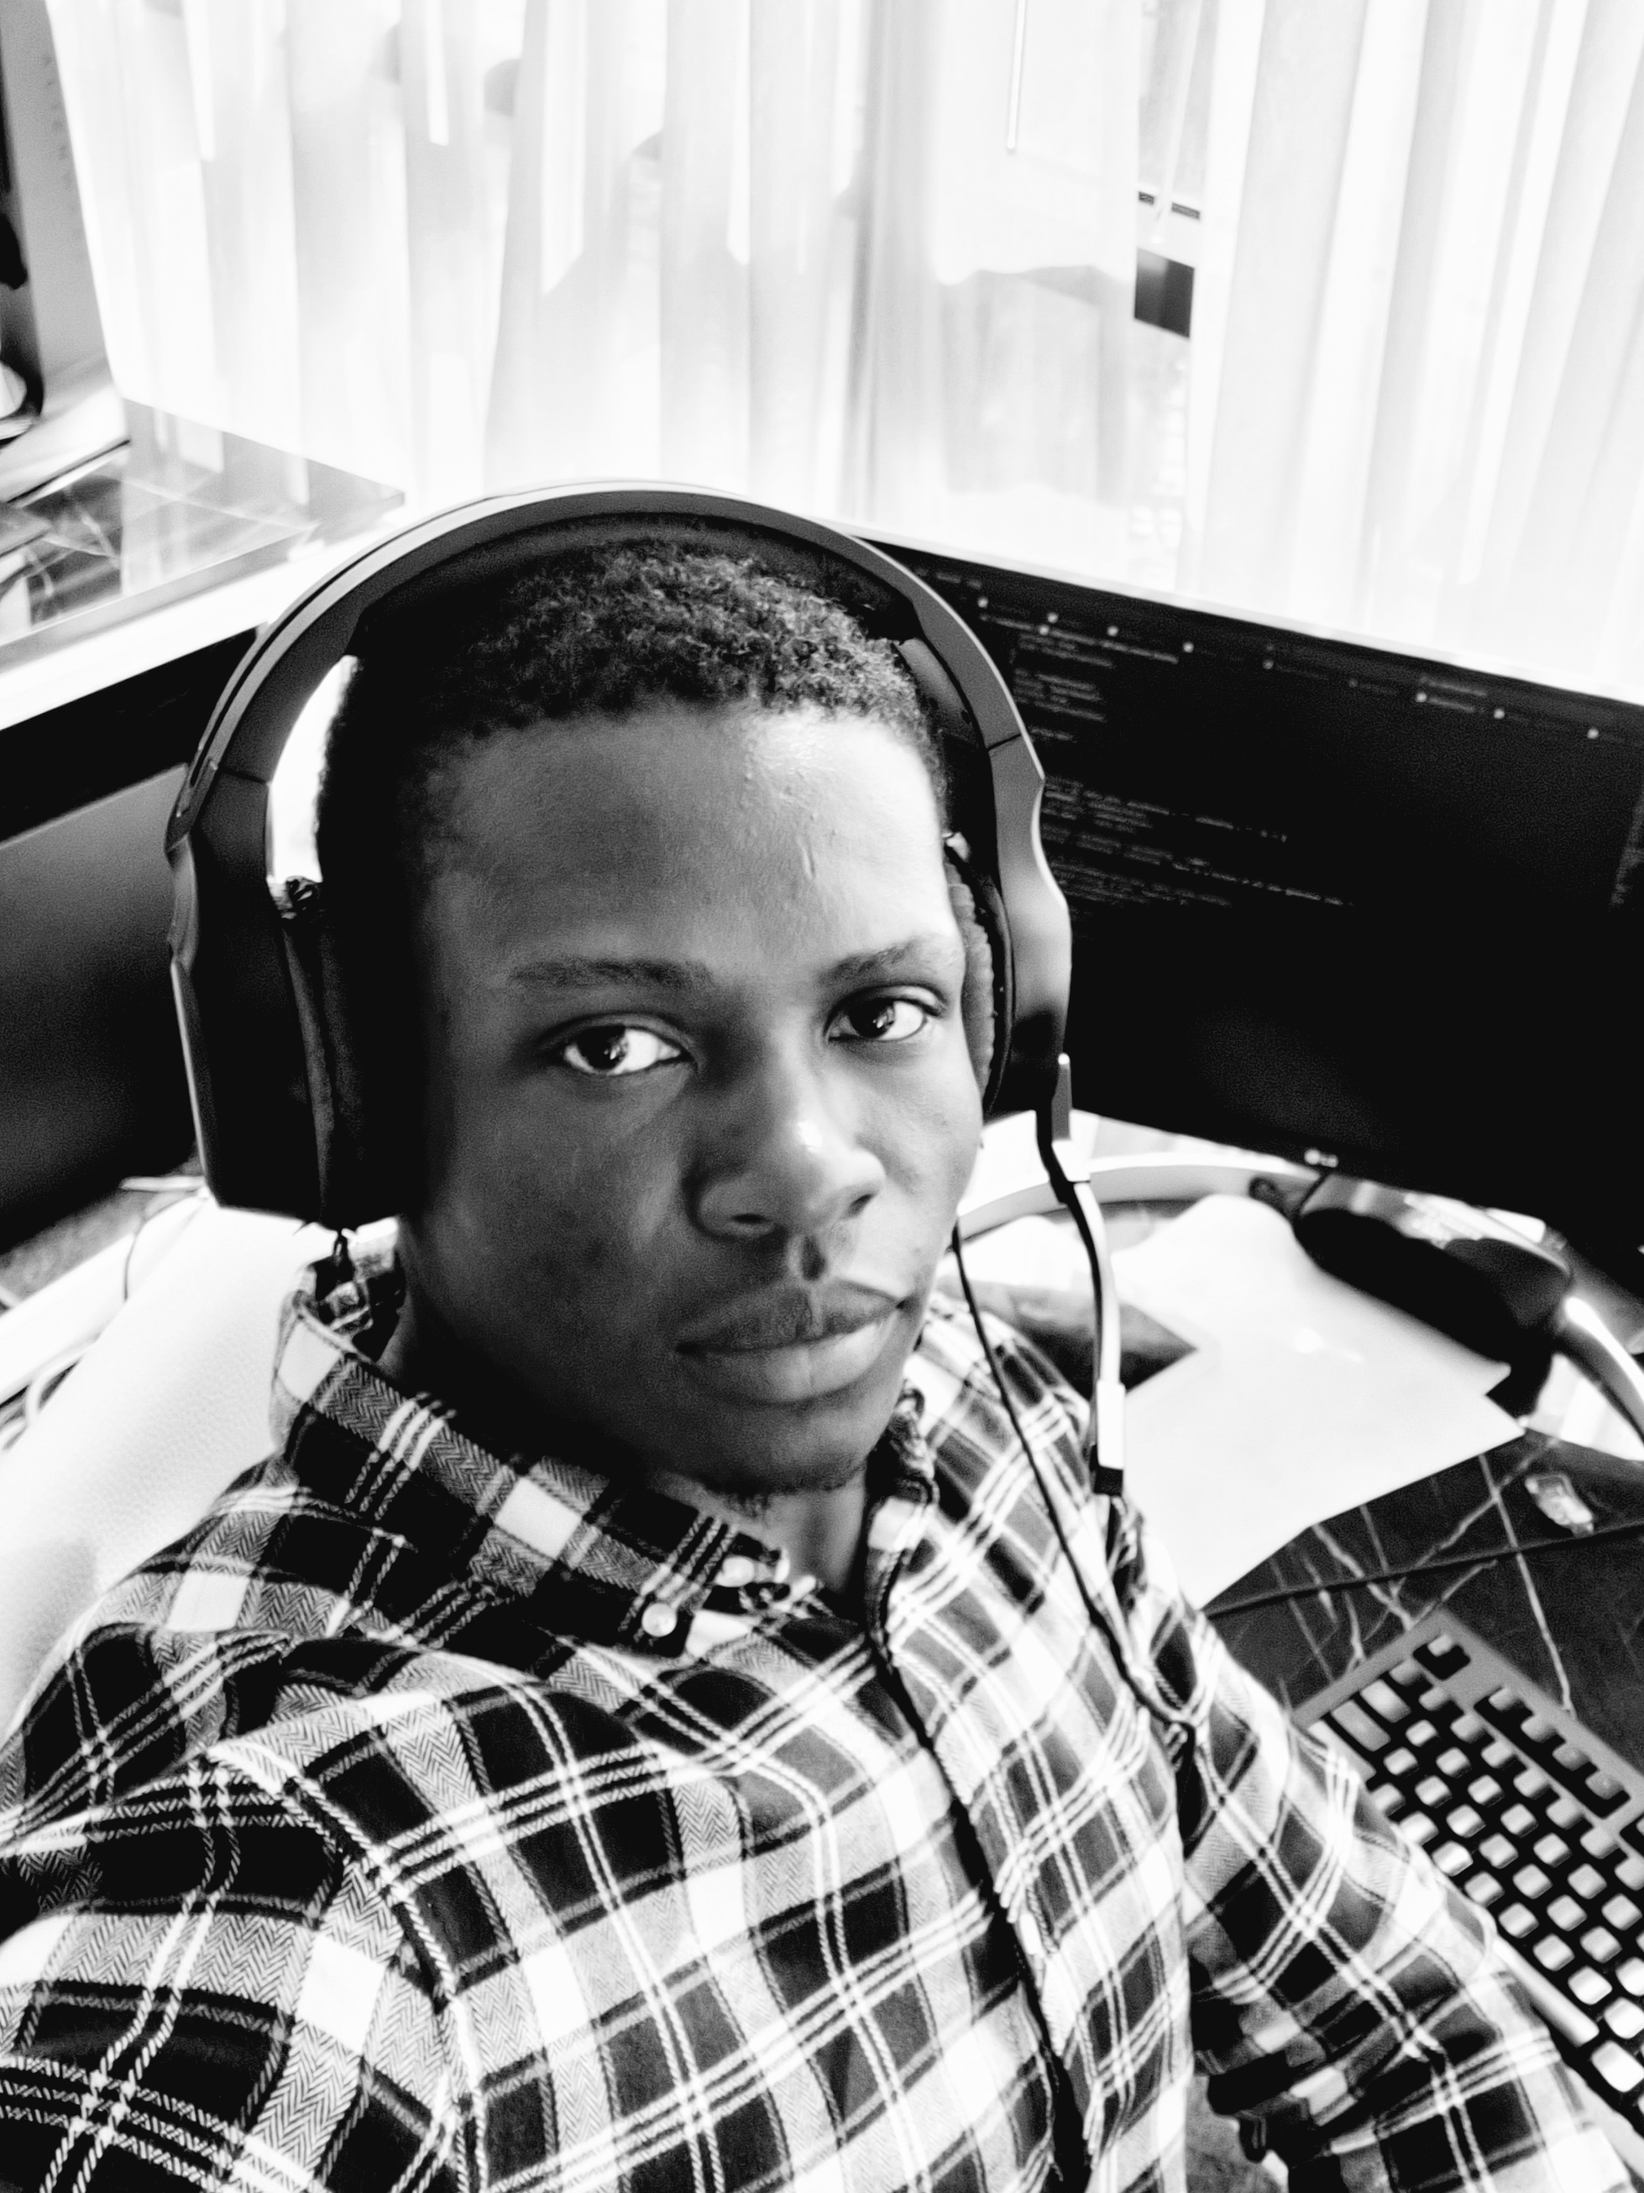
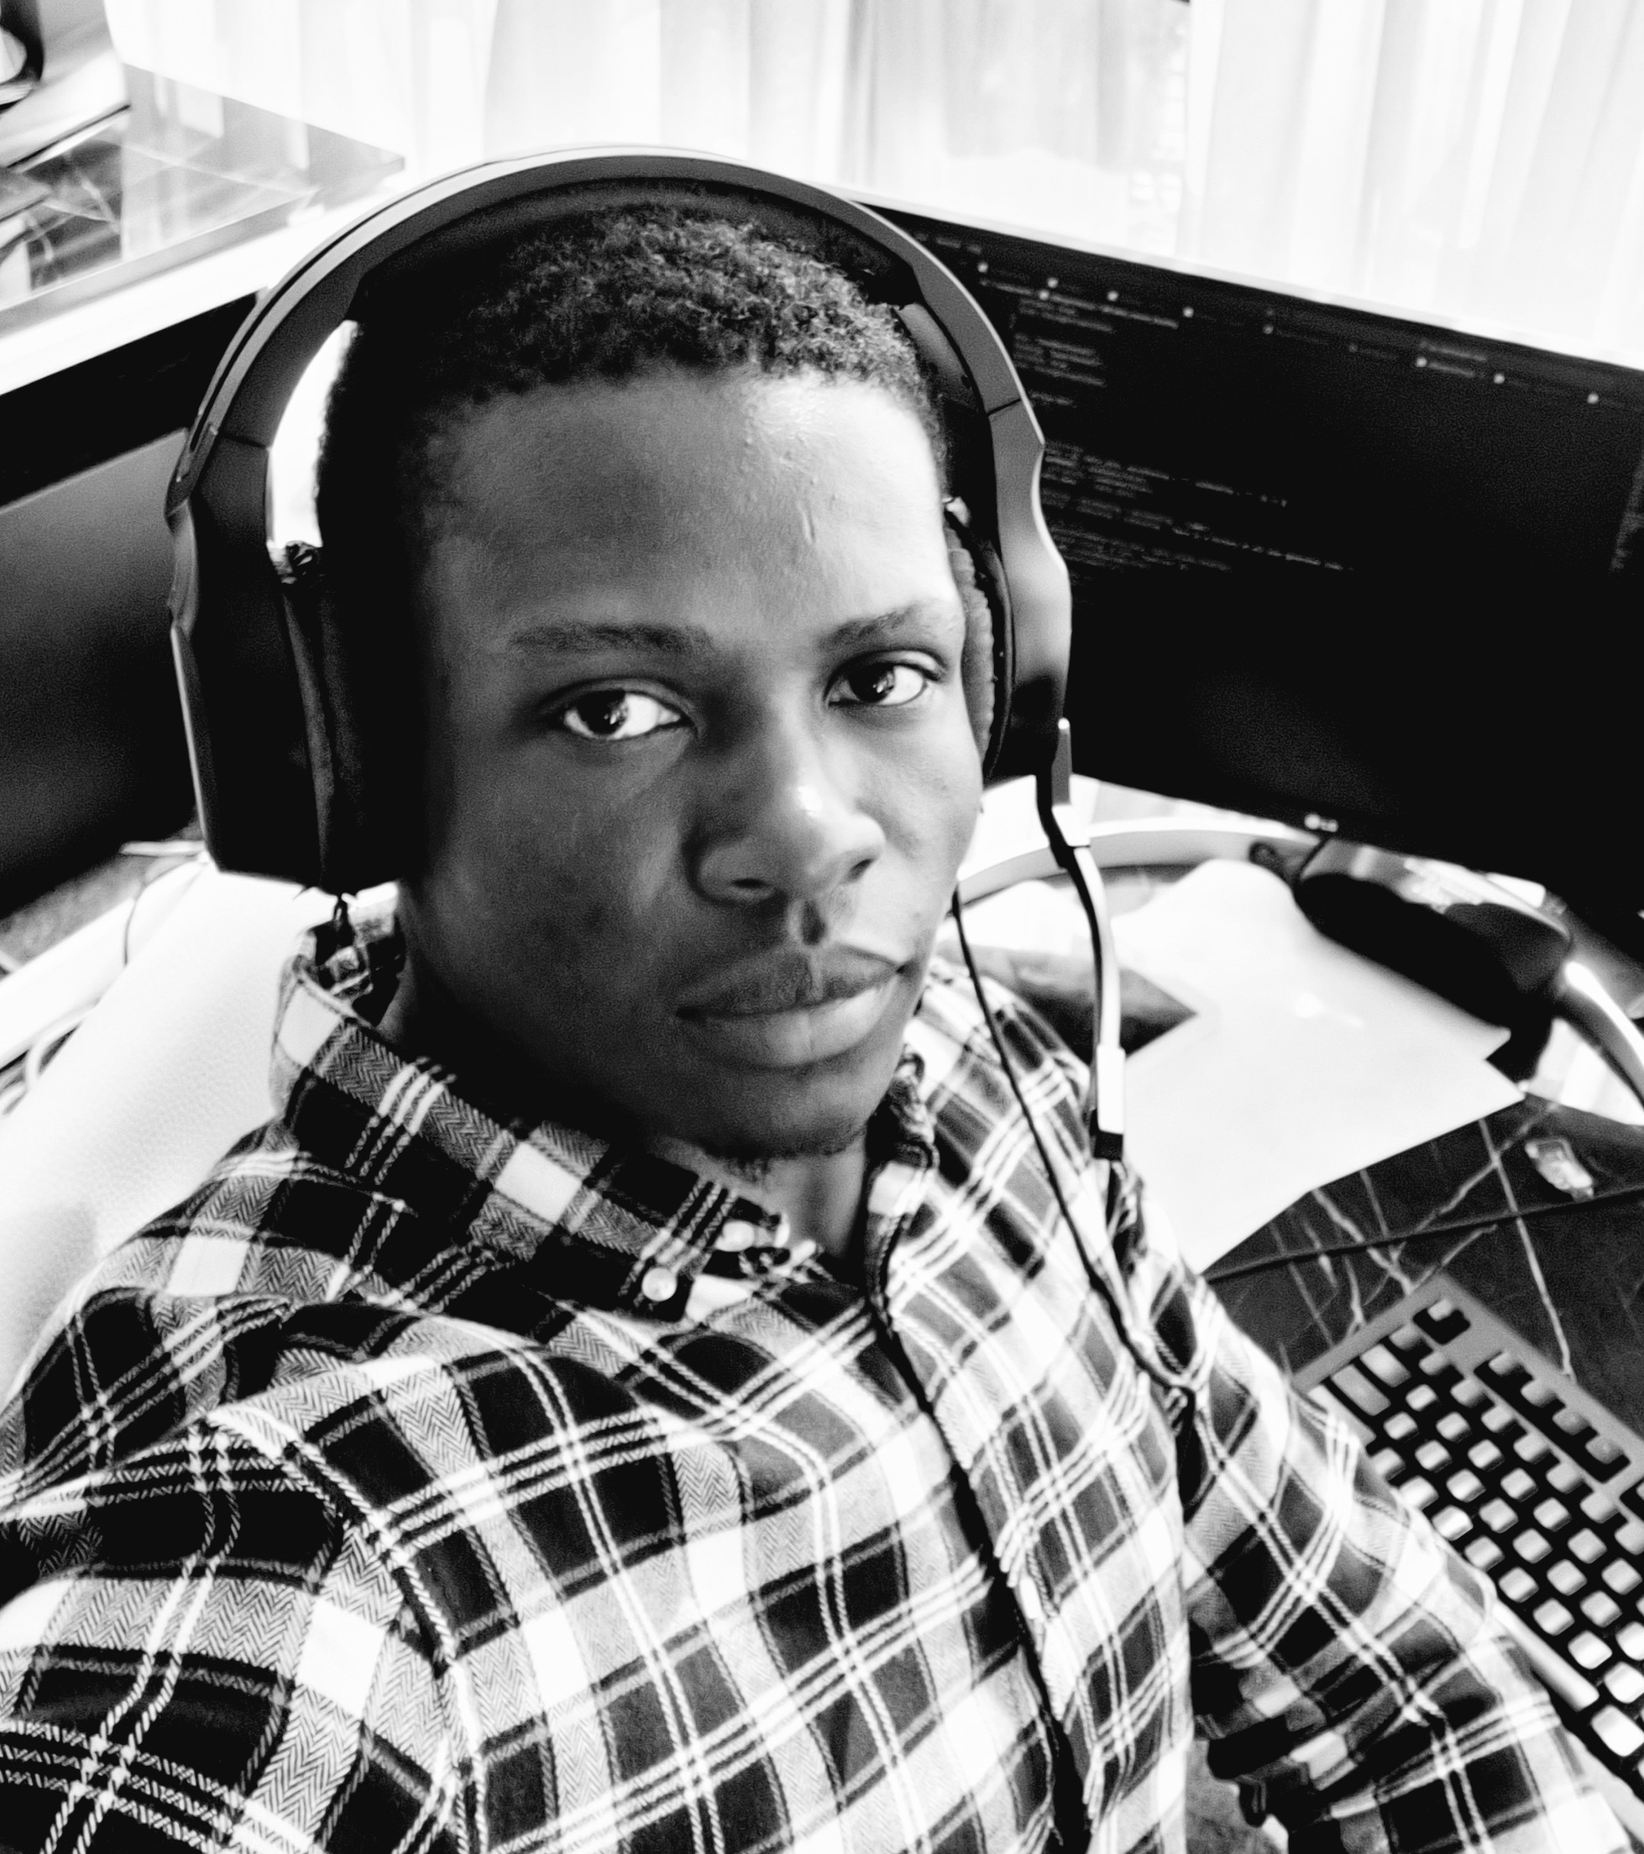
update readme file, and home image

diff --git a/README.md b/README.md
@@ -3,10 +3,6 @@
 ```sh
 npm create astro@latest -- --template portfolio
 ```
-
-[![Open in StackBlitz](https://developer.stackblitz.com/img/open_in_stackblitz.svg)](https://stackblitz.com/github/withastro/astro/tree/latest/examples/portfolio)
-[![Open with CodeSandbox](https://assets.codesandbox.io/github/button-edit-lime.svg)](https://codesandbox.io/p/sandbox/github/withastro/astro/tree/latest/examples/portfolio)
-[![Open in GitHub Codespaces](https://github.com/codespaces/badge.svg)](https://codespaces.new/withastro/astro?devcontainer_path=.devcontainer/portfolio/devcontainer.json)
 [![Netlify Status](https://api.netlify.com/api/v1/badges/3c5260b5-4fe0-40e7-8cd7-b27a54ec9eb4/deploy-status)](https://app.netlify.com/sites/donaldchiaye/deploys)
 
 ## 🧞 Commands
